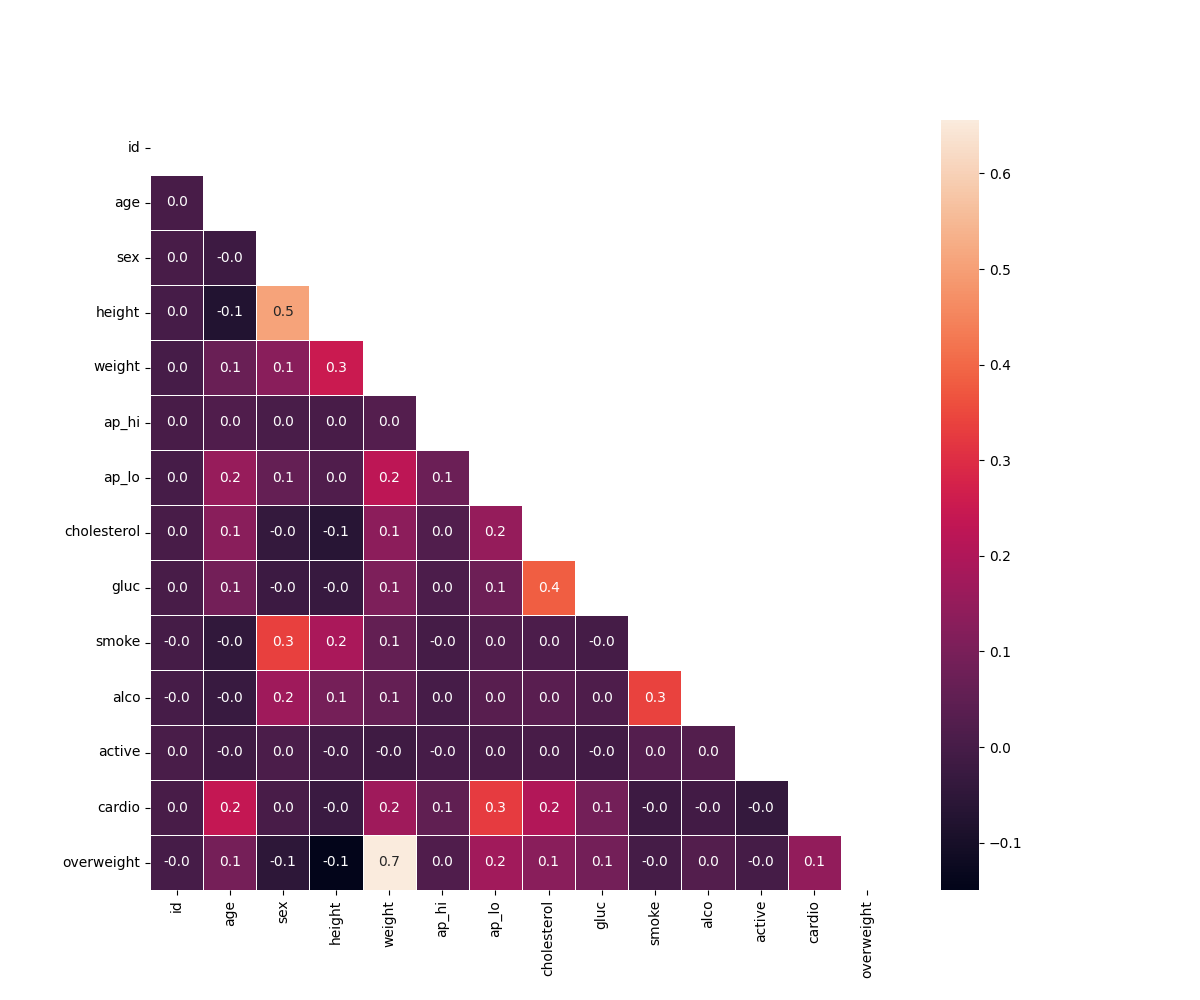
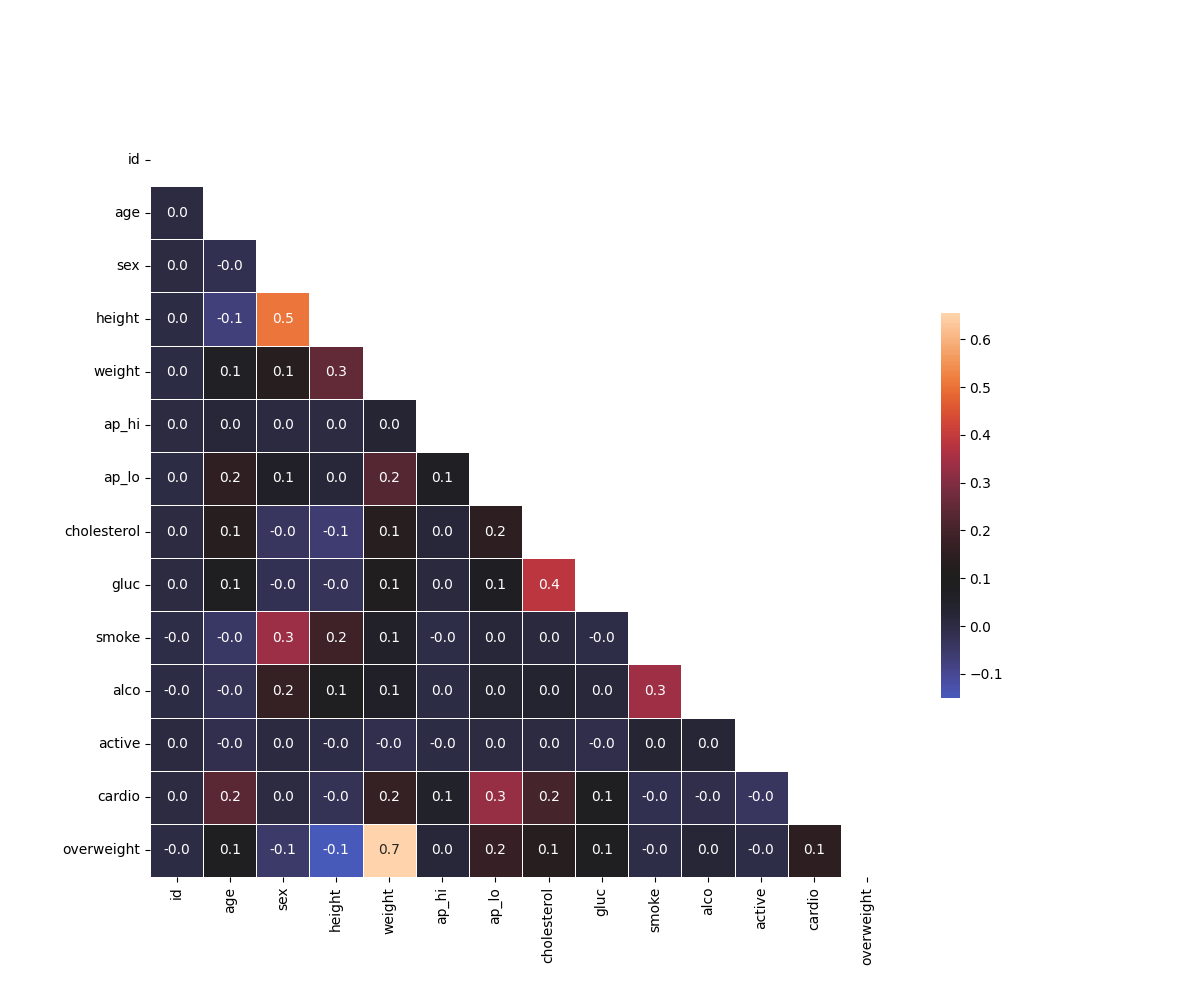
customized cbar

Changed region(s): [[0.0617, 0.155, 0.7092, 0.961], [0.7708, 0.124, 0.8325, 0.899], [0.7092, 0.899, 0.74, 0.961]]

diff --git a/medical_data_visualizer.py b/medical_data_visualizer.py
@@ -60,11 +60,14 @@ def draw_heat_map():
     fig, ax = plt.subplots(figsize=(12, 10))
 
     # 15
-    sns.heatmap(corr, annot = True, fmt=".1f", mask=mask, ax=ax,
-                    linewidth =.5)
+    sns.heatmap(corr, annot=True, fmt=".1f", mask=mask, ax=ax,
+                    linewidth=.5, cbar_kws={"shrink":0.5}, square=True,
+                    center=0.1)
 
 
 
     # 16
     fig.savefig('heatmap.png')
     return fig
+
+draw_heat_map()
